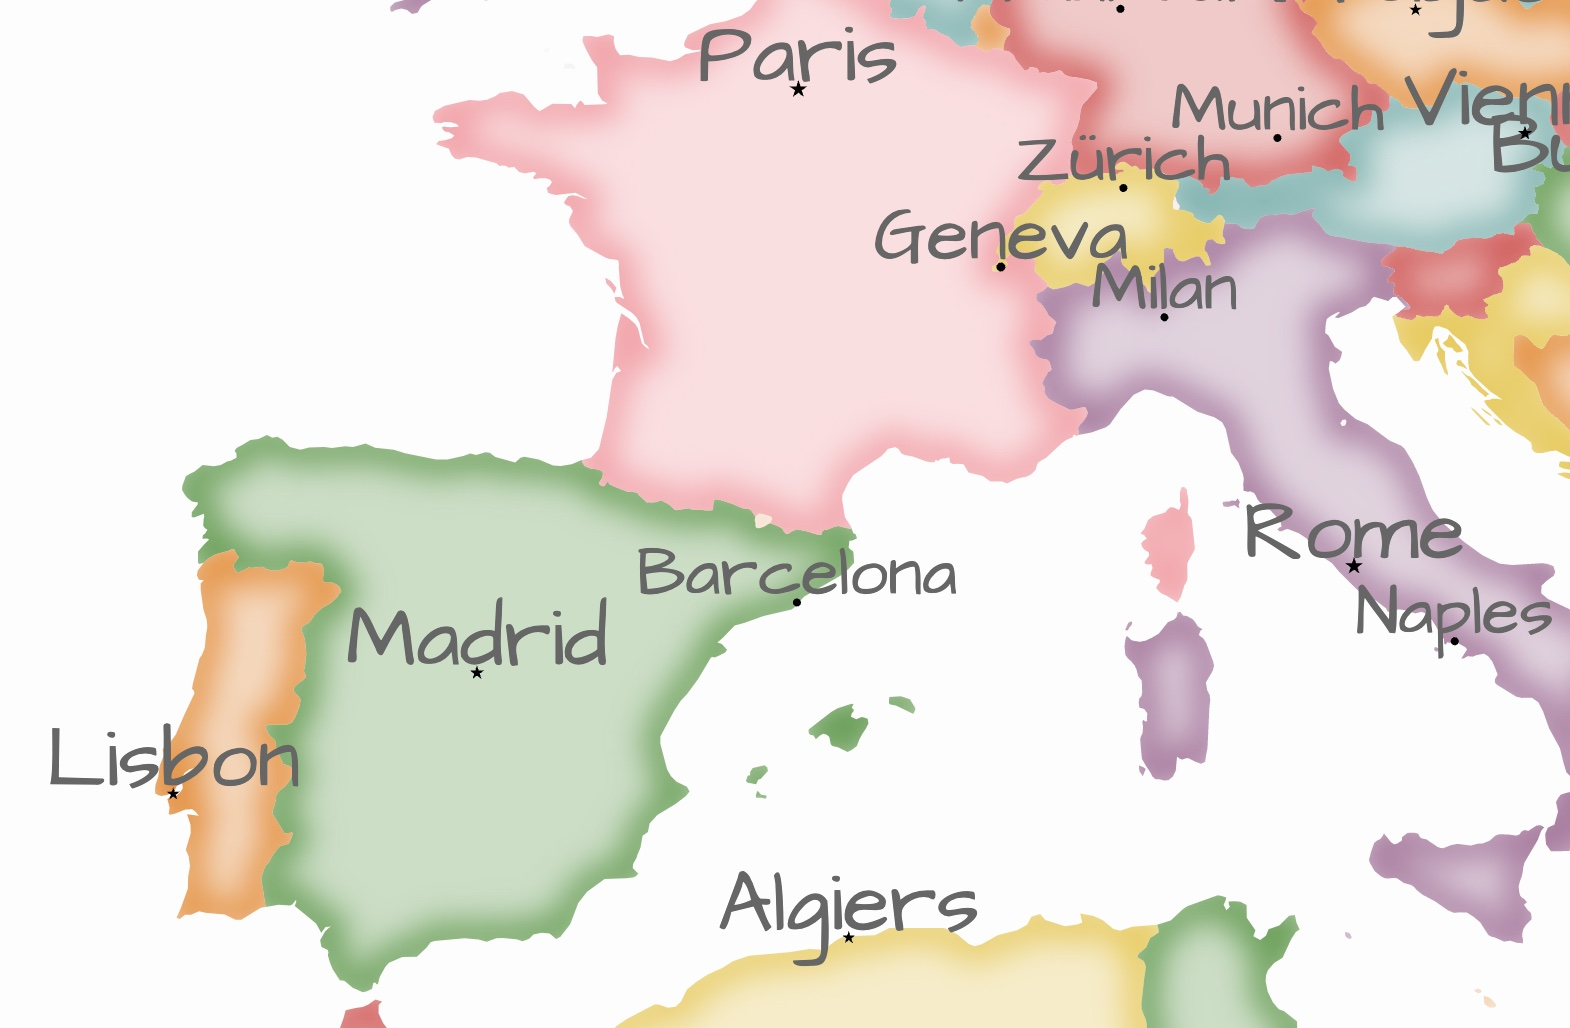
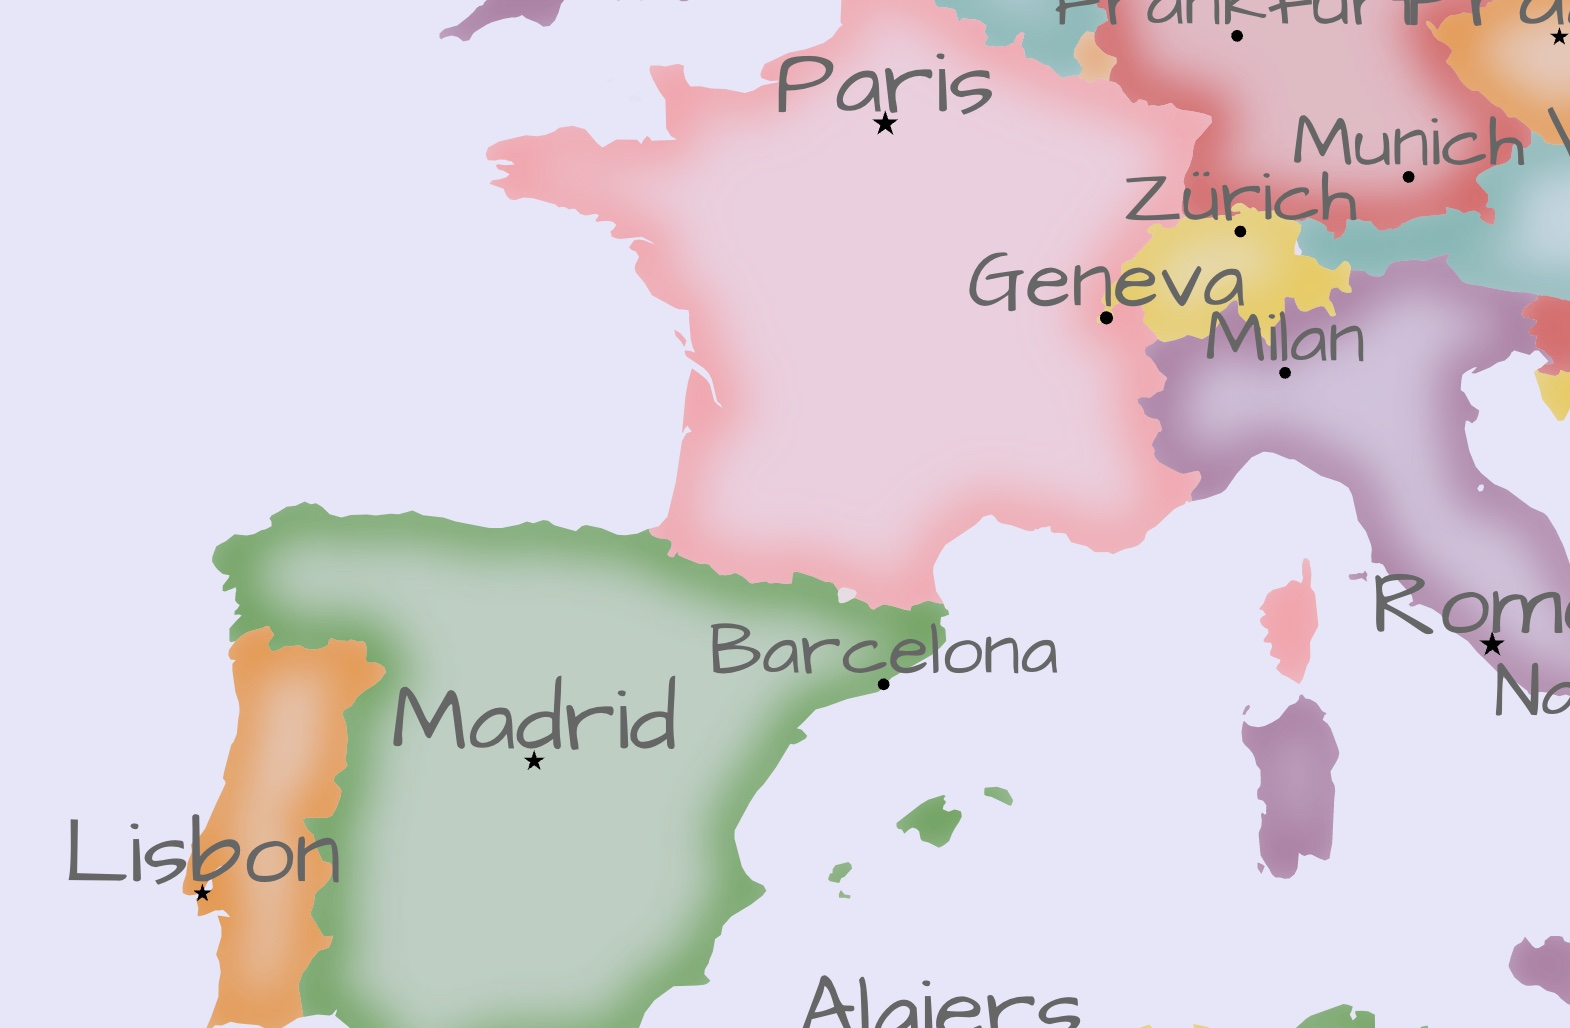
local changes

diff --git a/_posts/2022-04-04-cartoon-maps.md b/_posts/2022-04-04-cartoon-maps.md
@@ -7,7 +7,10 @@ tags: d3 maps dataviz
 ---
 
 A quick visualization experiment to create an informal / cartoonish map
-reminiscent of the game of *Risk*.
+reminiscent of the game of *Risk*.  The watercolor country border style is
+achieved by drawing a wide stroke around each country in the same color as
+the semi-transparent fill, then applying Gaussian blur to smudge the border
+while clipping to the original outline leaving a sharp boundary.
 
 <!--more-->
 
@@ -21,6 +24,41 @@ reminiscent of the game of *Risk*.
 
 <div id='demo'></div>
 
+See page source for the full details, but the key pieces are these:
+
+```css
+.country {
+  /* wide rounded stroke as the basis for blur */
+  stroke-width: 8;
+  stroke-linejoin: round;
+  /* semi-transparent fill */
+  fill-opacity: 0.33;
+}
+```
+
+```js
+// blur that we'll apply to each region
+svg.append("filter")
+    .attr("id", "blur")
+    .append("feGaussianBlur")
+    .attr("in", "SourceGraphic")
+    .attr("stdDeviation", 4);
+...
+// use predeclared path for each country to draw the region for stroke and fill as well as clipping
+svg.append('g')
+    .attr("class", "countries")
+    .selectAll('.country')
+    .data(countries)
+  .enter().append('g')
+    .attr("class", "country")
+    .append("use")
+    .attr("xlink:href", d => "#" + d.properties.adm0_a3)
+    .attr("clip-path", d => `url(#inside-${d.properties.adm0_a3})`)
+    .attr("filter", "url(#blur)")
+    .style("stroke", countrycolor)
+    .style("fill", countrycolor);
+```
+
 <link rel="preconnect" href="https://fonts.googleapis.com">
 <link rel="preconnect" href="https://fonts.gstatic.com" crossorigin>
 <link href="https://fonts.googleapis.com/css2?family=Architects+Daughter&display=swap" rel="stylesheet">
@@ -28,7 +66,7 @@ reminiscent of the game of *Risk*.
 <style>
 #demo {
   font-family: 'Architects Daughter', cursive;
-  font-size: 16pt;
+  font-size: 12pt;
   margin: 0;
   background-color: lavender;
 }
@@ -41,7 +79,7 @@ svg {
   fill-opacity: 0.33;
 }
 .city path{
-  fill:  #33;
+  fill:  #333;
 }
 .country text {
   font-size: 120%;
@@ -56,80 +94,78 @@ text {
 
 <script src="https://d3js.org/d3.v7.min.js"></script>
 <script>
-var width = 768,
-    height = 450;
-
-var svg = d3.select("#demo").append("svg")
+const
+  width = 768,
+  height = 450,
+  svg = d3.select("#demo").append("svg")
     .attr("width", width)
     .attr("height", height);
-
+//
 svg.append("filter")
     .attr("id", "blur")
     .append("feGaussianBlur")
     .attr("in", "SourceGraphic")
     .attr("stdDeviation", 4);
-
-var defs = svg.append("defs");
-
+//
+const defs = svg.append("defs");
+//
 Promise.all([
   d3.json("https://d2ad6b4ur7yvpq.cloudfront.net/naturalearth-3.3.0/ne_50m_admin_0_countries.geojson"),
   d3.json("https://d2ad6b4ur7yvpq.cloudfront.net/naturalearth-3.3.0/ne_50m_populated_places_simple.geojson"),
 ]).then(
 function([countrygeo, citygeo]) {
-    let
+    const
       cities = citygeo.features.filter(d =>
           d.megacity || d.properties.scalerank <= 2
         ),
       a3s = cities.map(d => d.properties.adm0_a3),
-      countries = countrygeo.features //.filter(d => a3s.includes(d.properties.adm0_a3));
-
-    var projection = d3.geoEqualEarth()
+      countries = countrygeo.features,
+      countrycolor = d => d3.schemeTableau10[d.properties.mapcolor7],
+      projection = d3.geoEqualEarth()
         .fitSize([width, height], {type: 'FeatureCollection', features: countries})
         .center([20, 45])
-        .scale(width)
-
-    var path = d3.geoPath()
+        .scale(width),
+      path = d3.geoPath()
         .projection(projection);
-
+//
     defs.selectAll("path")
         .data(countries)
       .enter().append("path")
         .attr("id", d => d.properties.adm0_a3)
         .attr("d", path)
-
+//
     defs.selectAll("clipPath")
         .data(countries)
       .enter().append("clipPath")
         .attr("id", d => "inside-" + d.properties.adm0_a3)
         .append("use")
         .attr("xlink:href", d => "#" + d.properties.adm0_a3)
-
-    let shapes = svg.append('g')
+//
+    svg.append('g')
         .attr("class", "countries")
         .selectAll('.country')
         .data(countries)
       .enter().append('g')
-        .attr("class", "country");
-
-    shapes
+        .attr("class", "country")
         .append("use")
         .attr("xlink:href", d => "#" + d.properties.adm0_a3)
         .attr("clip-path", d => `url(#inside-${d.properties.adm0_a3})`)
         .attr("filter", "url(#blur)")
-        .style("stroke", d => d3.schemeTableau10[d.properties.mapcolor7])
-        .style("fill", d => d3.schemeTableau10[d.properties.mapcolor7]);
-
-    let dots = svg.append('g')
+        .style("stroke", countrycolor)
+        .style("fill", countrycolor);
+//
+    const dots = svg.append('g')
         .attr("class", "cities")
         .selectAll(".city")
         .data(cities)
       .enter().append("g")
         .attr("class", "city")
         .attr('transform', d => {
-          let [x, y] = projection(d.geometry.coordinates);
+          const [x, y] = projection(d.geometry.coordinates);
           return `translate(${x}, ${y})`;
         })
         .datum(d => d.properties);
+//
     dots.append('path')
       .attr("d", d => d3.symbol(d.adm0cap ? d3.symbolStar: d3.symbolCircle, 2*(3 - Math.sqrt(d.scalerank)))());
     dots.append('text')

diff --git a/README.md b/README.md
@@ -1,7 +1,7 @@
 Abracadata
 ===
 
-A collection of random blog postings about things I find interesting.
+A collection of postings about things I find interesting.
 Based on the Chirpy Starter, see the [theme's docs][starter].
 Served with jekyll on at [patricksurry.github.io][home].
 For local development [use][usage]:
@@ -28,9 +28,19 @@ TODO
 
 [emoji]: https://www.fabriziomusacchio.com/blog/2021-08-16-emojis_for_Jekyll/
 
+Links
+---
+
+- [hand-drawn svg path effects](https://observablehq.com/@oliviafvane/simple-pencil-ink-pen-effect-for-svg-path-using-filters)
+- [roughjs](https://roughjs.com/)
+https://heredragonsabound.blogspot.com/2020/02/creating-pencil-effect-in-svg.html
 
 Articles
 ---
+
+- Asimov "The Feeling of Power"
+
+- add'l notes for Tenets article from https://paper.dropbox.com/doc/Data-Science-Tenets--B0hq_CTOjCRe8mPJE_EbtfPCAg-pKpyPDpV3M415Uk7iSEIp
 
 - mandelsnake https://math.stackexchange.com/questions/4638713/is-there-an-analogue-of-the-gosper-flowsnake-on-the-cartesian-lattice/4642255#4642255
 
@@ -39,13 +49,15 @@ diagram https://docs.google.com/drawings/d/1HJgmXJP0U6lhY3hBPxyXK26HtawpgGHGX4x_
 - json-payload-chart
   was git@gist.github.svc.internal.zone:853a1c8410c84a2125ea147666afcfe4.git in /Users/psurry/Hopper/json-payload-chart
 
+  jq type example, e.g. with https://api.github.com/users/patricksurry/events or https://api.github.com/repos/patricksurry/eastern-front-1941/commits
+
 - sankey diagram
 
 - EF common solider; cartridge notes
 
 - Iquique
 
-- pydisass6502
+- pydisass6502 - quick tutorial on blind disassembly of the ef1941 cartridge image, note the code as data checksum thing
 
 - codecs
 
@@ -61,7 +73,3 @@ diagram https://docs.google.com/drawings/d/1HJgmXJP0U6lhY3hBPxyXK26HtawpgGHGX4x_
 - aide-memoire
 
 - calendar viz (rec-feed?)
-
-- geo / cyclic features articles
-
-- list ranking article

diff --git a/_posts/2023-02-11-flowsnake.md b/_posts/2023-02-11-flowsnake.md
@@ -2,7 +2,7 @@
 layout: post
 title:  "Taming the flowsnake and visualizing Covid proteins"
 date:   2023-02-11
-thumbnail: gosper.jpg
+thumbnail: flowsnake.png
 math: true
 tags: math dataviz hexagons
 ---
@@ -160,6 +160,7 @@ I stumbled on this idea via a note in
 Amit Patel's great [hexagonal grid reference][hexref].
 He links a stackoverflow question about [spiral honeycomb mosaic (SHM) coordinates][shmq].
 This is a system for enumerating an infinite hex grid.
+(See also the similar [generalized balanced ternary address][gbt] labeling.)
 We count in base 7 starting with the origin at 0,
 and label its six immediate neighbors 1 through 6
 to form a super-hex of seven individual hexagons.
@@ -177,6 +178,7 @@ Spiral honeycomb mosaic (SHM) coordinates give a recursive enumeration of an inf
 
 [hexref]: https://www.redblobgames.com/grids/hexagons/
 [shmq]: https://gamedev.stackexchange.com/questions/71785/converting-between-spiral-honeycomb-mosaic-and-axial-hex-coordinates
+[gbt]: https://www.asprs.org/wp-content/uploads/pers/1988journal/nov/1988_nov_1565-1570.pdf
 
 The SHM enumeration of the hex grid is straightforward,
 but if we draw the path connecting sequential numbers
